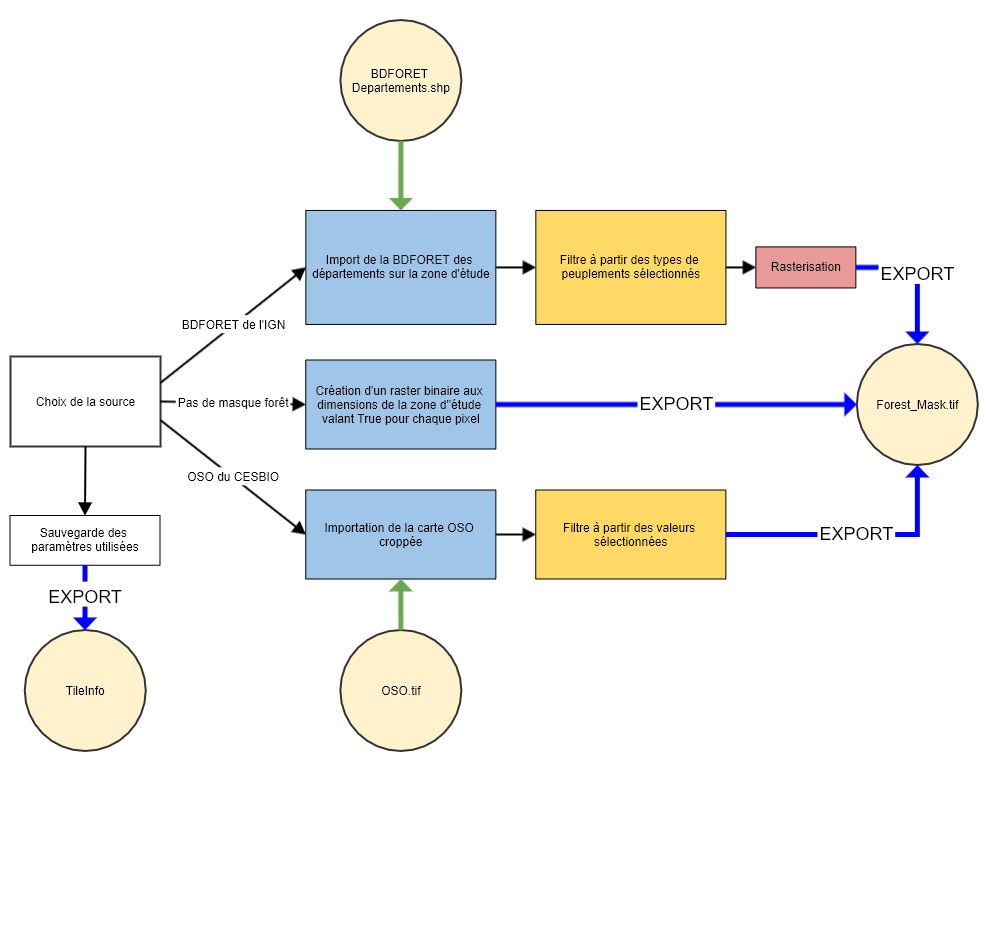
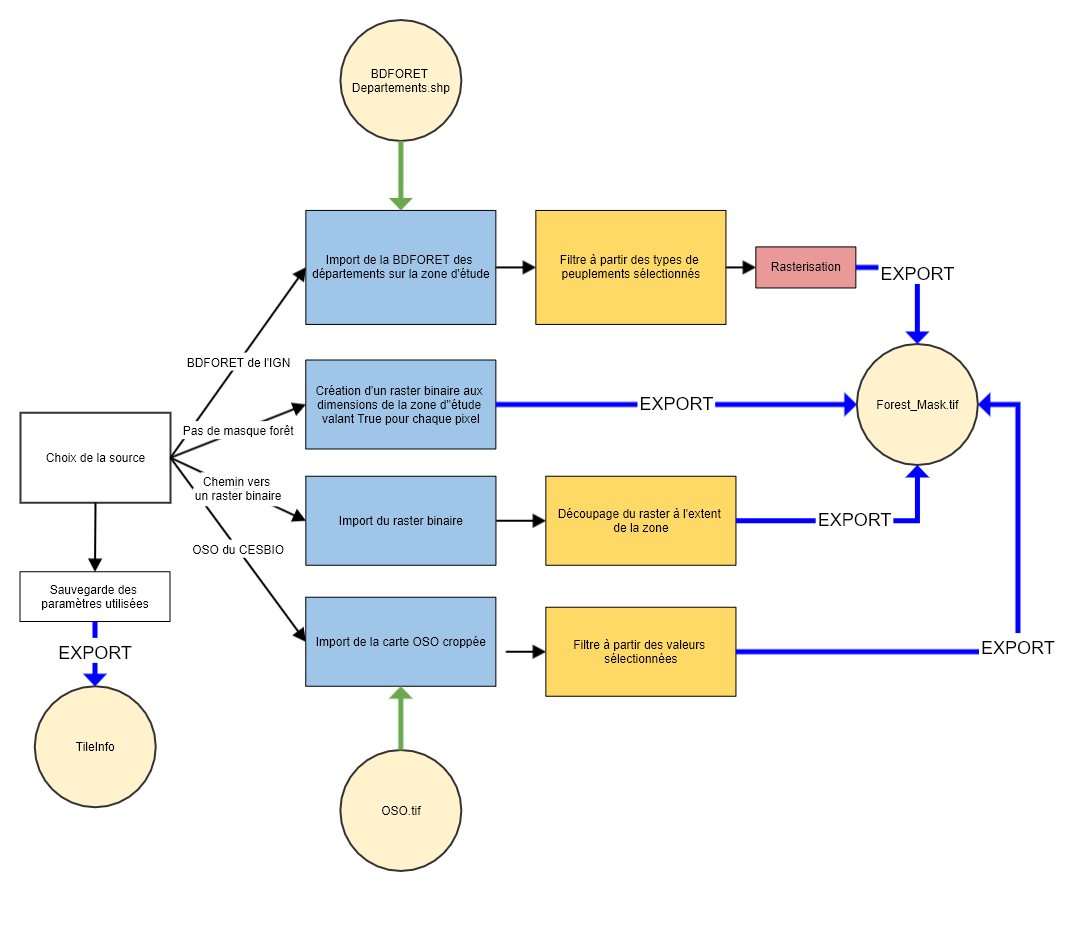
Modifying documentation

diff --git a/docs/user_guides/04_compute_forest_mask.md b/docs/user_guides/04_compute_forest_mask.md
@@ -4,7 +4,7 @@ Cette étape permet de calculer le masque forêt et ainsi définir les zones d'i
 #### ENTRÉES
 Les paramètres en entrée sont :
 - **data_directory** : Le chemin du dossier de sortie dans lequel sera écrit le masque forêt
-- **forest_mask_source** : Source du masque forêt, peut être "BDFORET" pour utiliser la BD Forêt de l'IGN,  "OSO" pour utiliser la carte d'occupation des sols du CESBIO, le chemin d'un raster binaire à l'extent et la résolution de la zone utilisée valant 1 sur les pixels d'intérêt, ou None pour ne pas utiliser de masque forêt et étendre la zone d'intérêt à l'ensemble des pixels
+- **forest_mask_source** : Source du masque forêt, peut être "BDFORET" pour utiliser la BD Forêt de l'IGN,  "OSO" pour utiliser la carte d'occupation des sols du CESBIO, le chemin vers un raster binaire de résolution 10m valant 1 sur les pixels d'intérêt, ou None pour ne pas utiliser de masque forêt et étendre la zone d'intérêt à l'ensemble des pixels
 - **dep_path** : Chemin d'un shapefile des départements français contenant le code insee dans un champ code_insee, seulement utile si forest_mask_source vaut "BDFORET"
 - **bdforet_dirpath** : Chemin du dossier contenant la BD Forêt de l'IGN avec un dossier par département. Seulement utile si forest_mask_source vaut "BDFORET"
 - **list_forest_type** : Liste des types de peuplements à garder dans le masque forêt, correspond au CODE_TFV de la BD Forêt. Seulement utile si forest_mask_source vaut "BDFORET"
@@ -59,6 +59,11 @@ Cette option est donnée pour les utilisateurs voulant créer leur propre masque
  - Importation de la [carte oso](http://osr-cesbio.ups-tlse.fr/~oso/) et cropping à partir du raster au chemin **path_example_raster**
  - Filtre à partir de la liste **list_code_oso** pour obtenir un raster valant True sur les pixels dont la valeur dans la carte OSO est dans la liste **list_code_oso**
  > **_Fonctions utilisées :_** [clip_oso()](https://fordead.gitlab.io/fordead_package/reference/fordead/masking_vi/#clip_oso)
+
+### A partir d'un raster binaire
+ - Si forest_mask_source est un chemin vers un fichier existant, ce fichier est importé.
+ - Le fichier est découpé à l'extent de la zone d'étude, ou du fichier au chemin path_example_raster
+ > **_Fonctions utilisées :_** [import_forest_mask()](https://fordead.gitlab.io/fordead_package/reference/fordead/ImportData/#import_forest_mask), [clip_xarray()](https://fordead.gitlab.io/fordead_package/reference/fordead/ImportData/#clip_xarray)
 
 ### Pas d'utilisation de masque
  Si il est choisi de ne pas utiliser de masque, le masque forêt crée est rempli entièrement avec la valeur True et correspond à la dimension, résolutione et système de projection du raster au chemin **path_example_raster**
